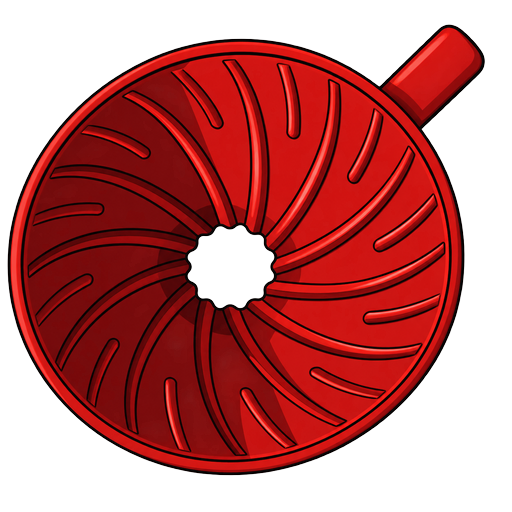
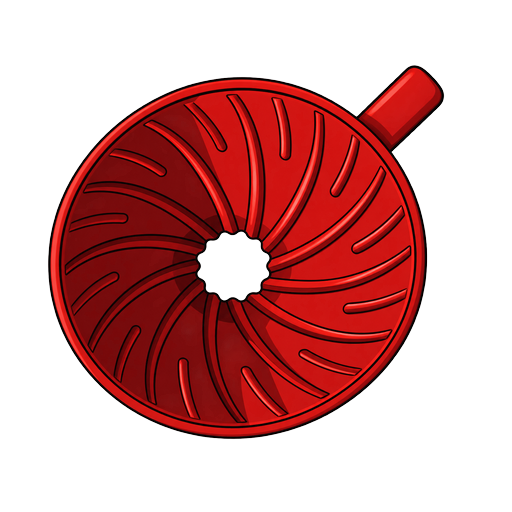
Add files via upload

diff --git a/index.html b/index.html
@@ -84,7 +84,7 @@
         <h1>☕ Mr Coffee</h1>
         <div class="sub">V60 scale-side helper</div>
       </div>
-      <div style="text-align:right"><div class="pill" id="ratioBadge">16:1 · 3× bloom</div><div class="sub" style="margin-top:5px">Mr Coffee · v1.3.4</div></div>
+      <div style="text-align:right"><div class="pill" id="ratioBadge">16:1 · 3× bloom</div><div class="sub" style="margin-top:5px">Mr Coffee · v1.3.5</div></div>
     </div>
 
     <div class="tabs">

diff --git a/service-worker.js b/service-worker.js
@@ -1,4 +1,4 @@
-const CACHE='mr-coffee-v1.3.4';
+const CACHE='mr-coffee-v1.3.5';
 const CORE=['./','./index.html','./manifest.webmanifest','./icon-192.png','./icon-512.png'];
 self.addEventListener('install',e=>{self.skipWaiting();e.waitUntil(caches.open(CACHE).then(c=>c.addAll(CORE)))});
 self.addEventListener('activate',e=>e.waitUntil(caches.keys().then(keys=>Promise.all(keys.filter(k=>k!==CACHE).map(k=>caches.delete(k)))).then(()=>self.clients.claim())));

diff --git a/README.md b/README.md
@@ -23,3 +23,6 @@ v1.3.3 redesigns the Android maskable icon to fill the circular launcher mask mo
 
 
 v1.3.4 removes maskable/adaptive icon assets entirely and uses only transparent standard icons, to test whether Android preserves the V60 silhouette and handle without a background tile.
+
+
+v1.3.5 reduces the V60 icon size within the transparent square so Android launchers can display the full dripper more comfortably inside their icon mask.
